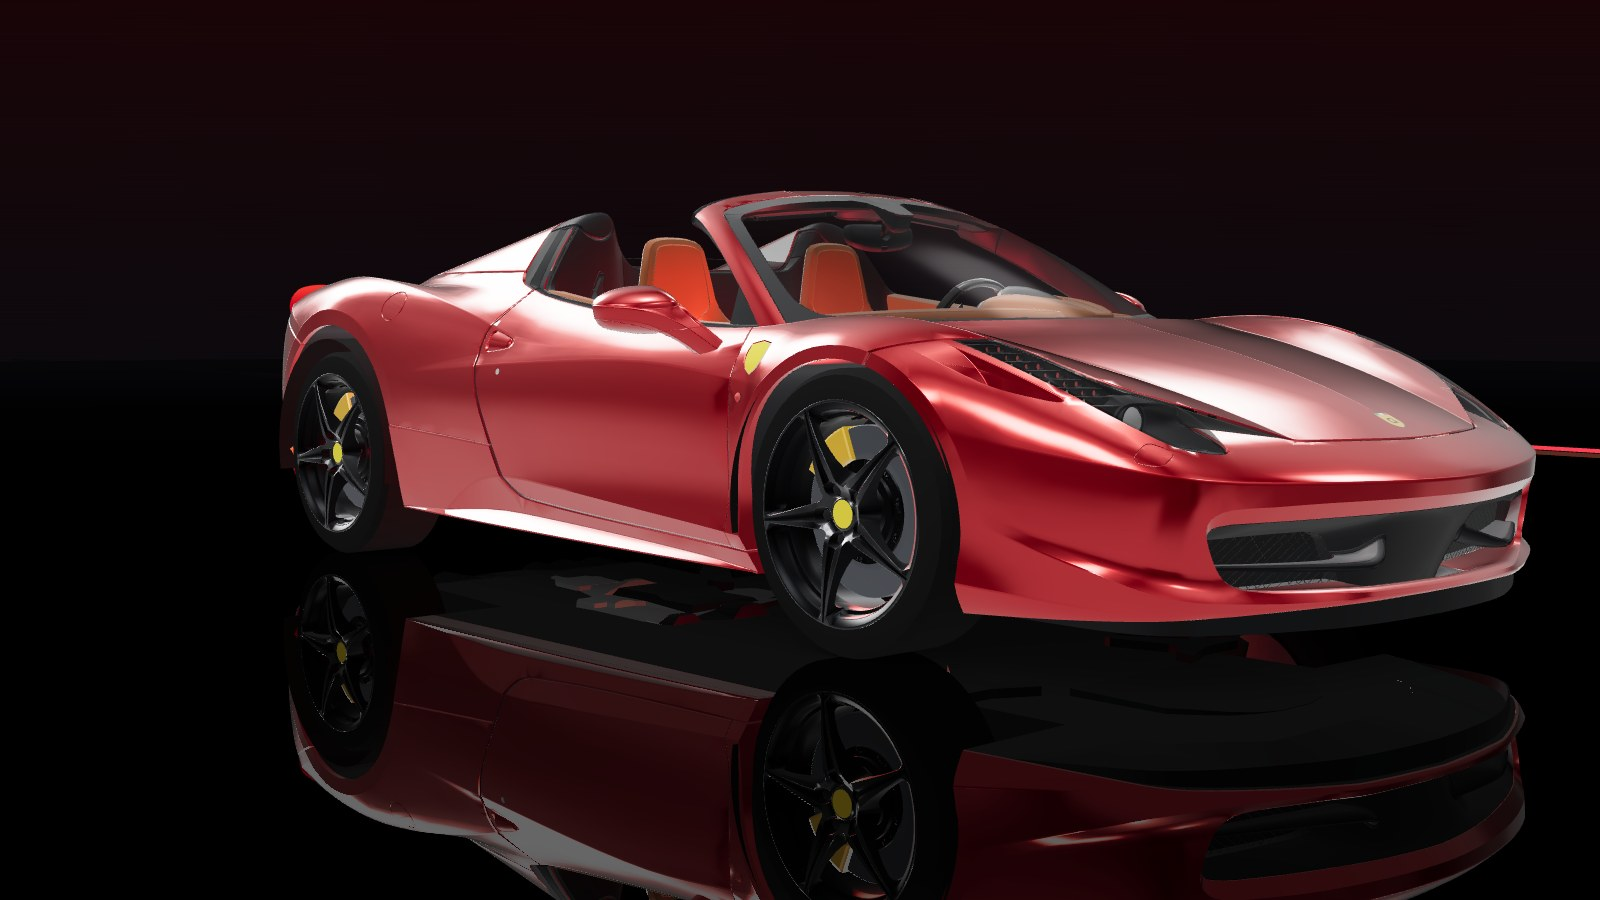
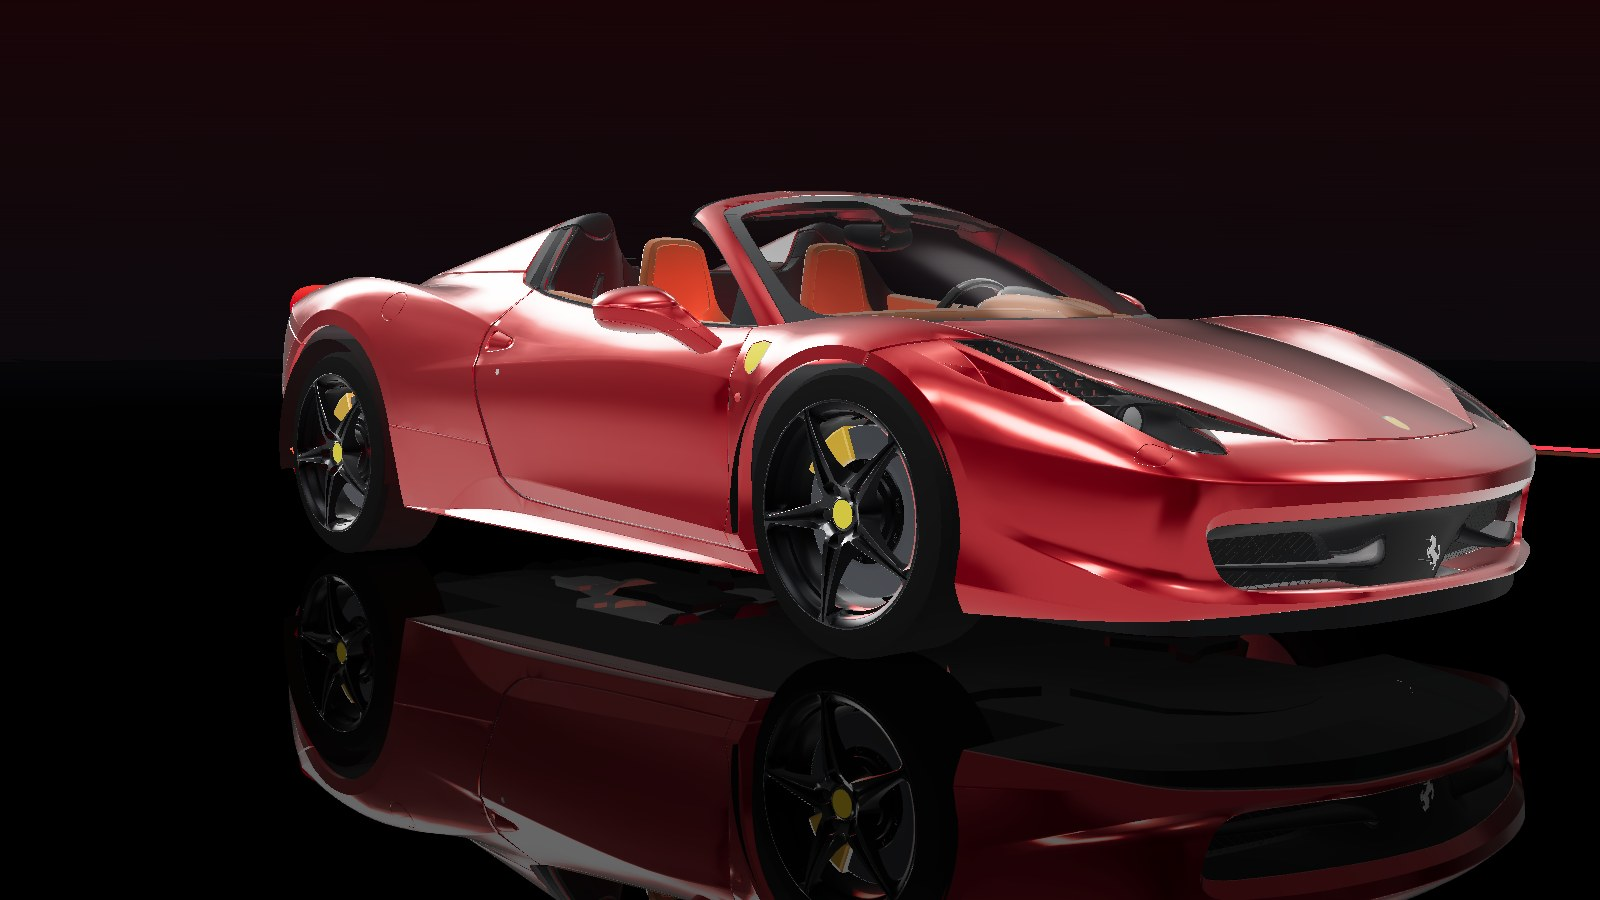
GLOSS: пустой щиток формы Ferrari чуть ниже на носу, конь на решётке возвращён

Changed region(s): [[0.875, 0.8711, 0.9062, 0.9022], [0.875, 0.5911, 0.9062, 0.6222], [0.5312, 0.6533, 0.5625, 0.6844]]

diff --git a/main.js b/main.js
@@ -460,9 +460,6 @@ async function initScene(canvas, onProgress) {
     cut('yellow_trim', (p) => p.z * F > 1.8) // жёлтый квадратик
     cut('chrome', (p) => Math.abs(p.x) < 0.06 && p.distanceTo(nose) < 0.07) // хромовая рамка под ним
     cut('interior_dark', (p) => Math.abs(p.x) < 0.06 && p.distanceTo(nose) < 0.07)
-    // эмблема с решётки бампера — убираем (знак остаётся один, на носу капота)
-    cut('chrome', (p) => Math.abs(p.x) < 0.05 && p.y > 0.23 && p.y < 0.35 && p.z * F > 2.15)
-    cut('interior_dark', (p) => Math.abs(p.x) < 0.03 && p.y > 0.25 && p.y < 0.34 && p.z * F > 2.16) // крепёж эмблемы (под ним тёмная панель)
     let noseSpot = null
     // под квадратиком в кузове дыра — закрываем заплаткой той же краской
     {
@@ -526,22 +523,23 @@ async function initScene(canvas, onProgress) {
     const c = document.createElement('canvas')
     c.width = 256; c.height = 320
     const x = c.getContext('2d')
-    const shield = (inset) => {
+    // форма щитка как у Ferrari: ровный верх, прямые бока, низ сходится в острый угол; внутри пусто — жёлтое поле и триколор сверху
+    const shield = (i) => {
       x.beginPath()
-      x.moveTo(20 + inset, 20 + inset); x.lineTo(236 - inset, 20 + inset); x.lineTo(236 - inset, 190 - inset * 0.4)
-      x.quadraticCurveTo(236 - inset, 260 - inset, 128, 304 - inset * 1.4)
-      x.quadraticCurveTo(20 + inset, 260 - inset, 20 + inset, 190 - inset * 0.4); x.closePath()
+      x.moveTo(34 + i, 14 + i); x.lineTo(222 - i, 14 + i); x.lineTo(222 - i, 176)
+      x.bezierCurveTo(222 - i, 236 - i * 0.5, 176 - i * 0.3, 276 - i * 0.6, 128, 306 - i * 1.3)
+      x.bezierCurveTo(80 + i * 0.3, 276 - i * 0.6, 34 + i, 236 - i * 0.5, 34 + i, 176); x.closePath()
     }
-    shield(0); x.fillStyle = '#111114'; x.fill()
-    shield(12); x.save(); x.clip()
-    x.fillStyle = '#f6c400'; x.fillRect(0, 0, 256, 320)
-    ;['#14a04a', '#f4f4f4', '#d81e2c'].forEach((col, i) => { x.fillStyle = col; x.fillRect(32 + i * 64, 32, 64, 34) })
-    x.fillStyle = '#111114'; x.font = '700 120px Unbounded, Arial'; x.textAlign = 'center'; x.textBaseline = 'middle'; x.fillText('G', 128, 175)
+    shield(0); x.fillStyle = '#121214'; x.fill()
+    shield(10); x.save(); x.clip()
+    const yg = x.createLinearGradient(0, 40, 0, 300); yg.addColorStop(0, '#ffd21a'); yg.addColorStop(1, '#e8b000')
+    x.fillStyle = yg; x.fillRect(0, 0, 256, 320)
+    ;['#159a48', '#f6f6f6', '#d9202f'].forEach((col, k) => { x.fillStyle = col; x.fillRect(44 + k * 56, 24, 56, 30) })
     x.restore()
     const tex = new THREE.CanvasTexture(c)
     tex.colorSpace = THREE.SRGBColorSpace
     tex.anisotropy = 8
-    const badge = new THREE.Mesh(new THREE.PlaneGeometry(0.072, 0.09), new THREE.MeshPhysicalMaterial({ map: tex, transparent: true, alphaTest: 0.5, metalness: 0.3, roughness: 0.25, clearcoat: 1, clearcoatRoughness: 0.05, polygonOffset: true, polygonOffsetFactor: -4 }))
+    const badge = new THREE.Mesh(new THREE.PlaneGeometry(0.066, 0.083), new THREE.MeshPhysicalMaterial({ map: tex, transparent: true, alphaTest: 0.5, metalness: 0.3, roughness: 0.25, clearcoat: 1, clearcoatRoughness: 0.05, polygonOffset: true, polygonOffsetFactor: -4 }))
     // щиток — на прежнее место знака, на носу капота (поверх заплатки)
     if (noseSpot) {
       const n = noseSpot.n
@@ -549,7 +547,8 @@ async function initScene(canvas, onProgress) {
       const up = back.sub(n.clone().multiplyScalar(n.dot(back))).normalize()
       const right = up.clone().cross(n)
       badge.quaternion.setFromRotationMatrix(new THREE.Matrix4().makeBasis(right, up, n))
-      badge.position.copy(noseSpot.pos).addScaledVector(n, 0.003)
+      // чуть ниже прежнего — ближе к краю носа
+      badge.position.copy(noseSpot.pos).addScaledVector(up, -0.018).addScaledVector(n, 0.004)
       scene.add(badge)
     }
   }

diff --git a/index.html b/index.html
@@ -105,10 +105,10 @@
           <p class="section__note" data-reveal>Потяните ползунок, чтобы сравнить.</p>
         </div>
         <div class="compare" id="compare-box" data-reveal style="--pos: 50%">
-          <img class="compare__img compare__img--after" src="assets/after.jpg?v=3" alt="Ferrari после полировки и керамики: глубокий красный лак с зеркальным отражением" width="1600" height="900" loading="lazy" />
+          <img class="compare__img compare__img--after" src="assets/after.jpg?v=4" alt="Ferrari после полировки и керамики: глубокий красный лак с зеркальным отражением" width="1600" height="900" loading="lazy" />
           <span class="compare__shine" aria-hidden="true"></span>
           <div class="compare__before" aria-hidden="true">
-            <img class="compare__img compare__img--before" src="assets/before.jpg?v=3" alt="" width="1600" height="900" loading="lazy" />
+            <img class="compare__img compare__img--before" src="assets/before.jpg?v=4" alt="" width="1600" height="900" loading="lazy" />
             <span class="compare__dust"></span>
           </div>
           <span class="compare__tag compare__tag--before">До · тусклый лак</span>
@@ -237,6 +237,6 @@
   <script src="https://cdn.jsdelivr.net/npm/gsap@3.15.0/dist/gsap.min.js" defer></script>
   <script src="https://cdn.jsdelivr.net/npm/gsap@3.15.0/dist/ScrollTrigger.min.js" defer></script>
   <script src="https://cdn.jsdelivr.net/npm/lenis@1.3.26/dist/lenis.min.js" defer></script>
-  <script type="module" src="main.js?v=32"></script>
+  <script type="module" src="main.js?v=33"></script>
 </body>
 </html>
